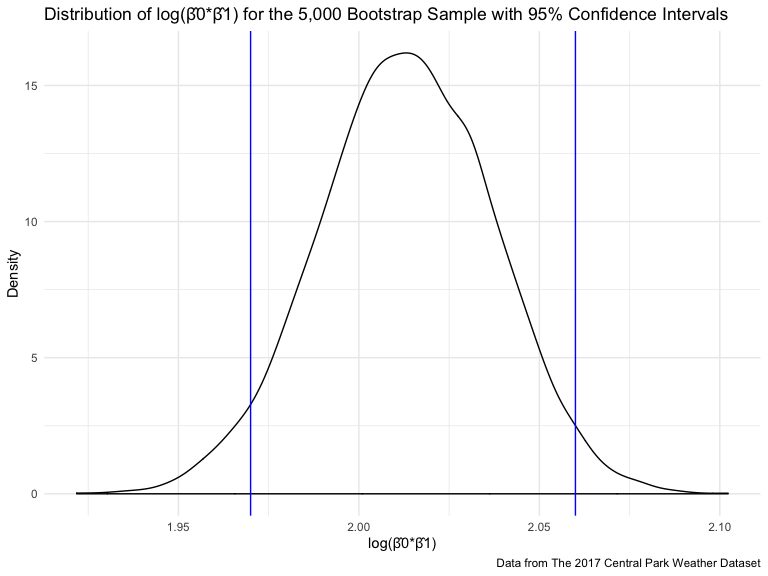
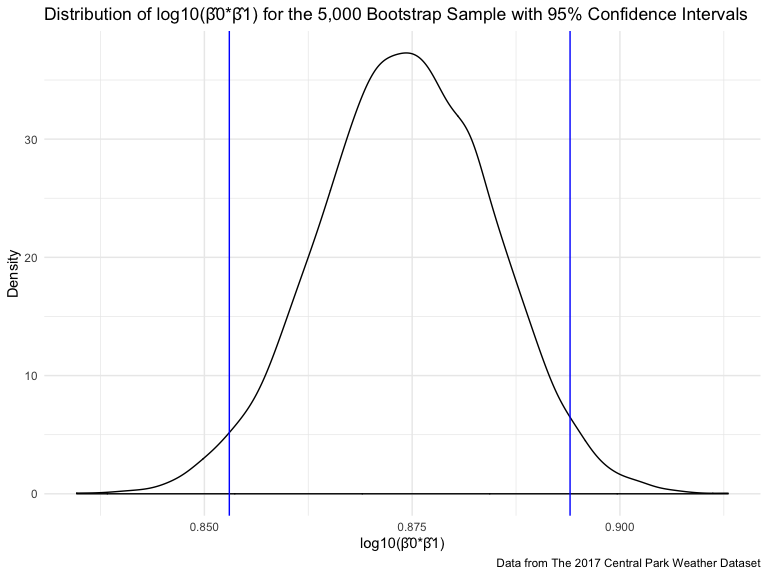
updated natural log to common log and associated descriptions

diff --git a/p8105_hw6_as5769.md b/p8105_hw6_as5769.md
@@ -111,6 +111,11 @@ birthweight %>%
 
 <img src="p8105_hw6_as5769_files/figure-gfm/unnamed-chunk-4-1.png" width="90%" />
 
+*Description*
+
+The residuals and fitted values are approximately equal to one another,
+with the exception of a few outliers.
+
 #### Comparing Models
 
 Creating linear models for the two other models in the homework
@@ -271,7 +276,7 @@ interval for β̂0 and β̂ by:
   - cleaning (`janitor::clean_names`) the name of the variables (need it
     for the next line of code)
   - creating a new variable using `mutate` that takes the log of β̂0\*β̂
-  - creating the 2.5% and 97.5% `quantile`for log(β̂0\*\*β̂) under the
+  - creating the 2.5% and 97.5% `quantile`for log10(β̂0\*\*β̂) under the
     `summarize` function
   - putting the confidence interval into a reader-friendly table using
     `knitr::kable`
@@ -295,7 +300,7 @@ conf_interval_log =
   ) %>%
   janitor::clean_names() %>%
   mutate(
-    log_intercept_tmin = log(intercept * tmin)
+    log_intercept_tmin = log10(intercept * tmin)
   )
 
 conf_interval_log %>%  
@@ -303,18 +308,22 @@ conf_interval_log %>%
     lower_CI = quantile(log_intercept_tmin, c(.025)),
     upper_CI = quantile(log_intercept_tmin, c(.975))
   ) %>%
-  knitr::kable(caption = "95% Confidence Interval for log(β̂0*β̂1)")
+  knitr::kable(caption = "95% Confidence Interval for log10(β̂0*β̂1)")
 ```
 
 | lower\_CI | upper\_CI |
 | --------: | --------: |
-|  1.964949 |  2.058887 |
+| 0.8533664 | 0.8941635 |
 
-95% Confidence Interval for log(β̂0\*β̂1)
+95% Confidence Interval for log10(β̂0\*β̂1)
+
+*Description*
+
+The 95% confidence interval for log10(β̂0^β̂) is 0.853 to 0.894.
 
 Identifing the 2.5% and 97.5% quantiles to provide a 95% confidence
 interval for r̂^2 using the same steps as just list (except omiting the
-creation of the log(β̂0^β̂) variable and instead calculating the
+creation of the log10(β̂0^β̂) variable and instead calculating the
 quantiles for r̂^2).
 
 ``` r
@@ -343,9 +352,13 @@ conf_interval_r_squared %>%
 
 95% Confidence Interval for r̂^2
 
-#### Plot Distribution of log(β̂0\*β̂1) and r̂^2
+*Description*
 
-Plotting the distribution of log(β̂0\*β̂1) for the 5,000 bootstrap
+The 95% confidence interval for r-squared is 0.893 to 0.927.
+
+#### Plot Distribution of log10(β̂0\*β̂1) and r̂^2
+
+Plotting the distribution of log10(β̂0\*β̂1) for the 5,000 bootstrap
 samples with its associated 95% confidence interval by taking the
 “conf\_interval\_log” dataframe created above and the making a density
 plot (`geom_density`), incluidng using `geom_vline` to plot the 2.5% and
@@ -355,11 +368,11 @@ plot (`geom_density`), incluidng using `geom_vline` to plot the 2.5% and
 conf_interval_log %>%
   ggplot(aes(x = log_intercept_tmin)) +
   geom_density() +
-  geom_vline(xintercept = 1.97, color = "blue") +
-  geom_vline(xintercept = 2.06, color = "blue") +
+  geom_vline(xintercept = 0.853, color = "blue") +
+  geom_vline(xintercept = 0.894, color = "blue") +
   labs(
-    title = "Distribution of log(β̂0*β̂1) for the 5,000 Bootstrap Sample with 95% Confidence Intervals",
-    x = "log(β̂0*β̂1)",
+    title = "Distribution of log10(β̂0*β̂1) for the 5,000 Bootstrap Sample with 95% Confidence Intervals",
+    x = "log10(β̂0*β̂1)",
     y = "Density",
     caption = "Data from The 2017 Central Park Weather Dataset"
   )
@@ -391,5 +404,5 @@ conf_interval_r_squared %>%
 *Description*
 
 The two plots both have a fairly symmetrical distributions with a single
-peak. The mean of the log(β̂0\*β̂1) distribution centers around 2.01 and
-the mean of the r̂^2 distribution centers around 0.91.
+peak. The mean of the log10(β̂0\*β̂1) distribution centers around 0.88
+and the mean of the r̂^2 distribution centers around 0.91.
